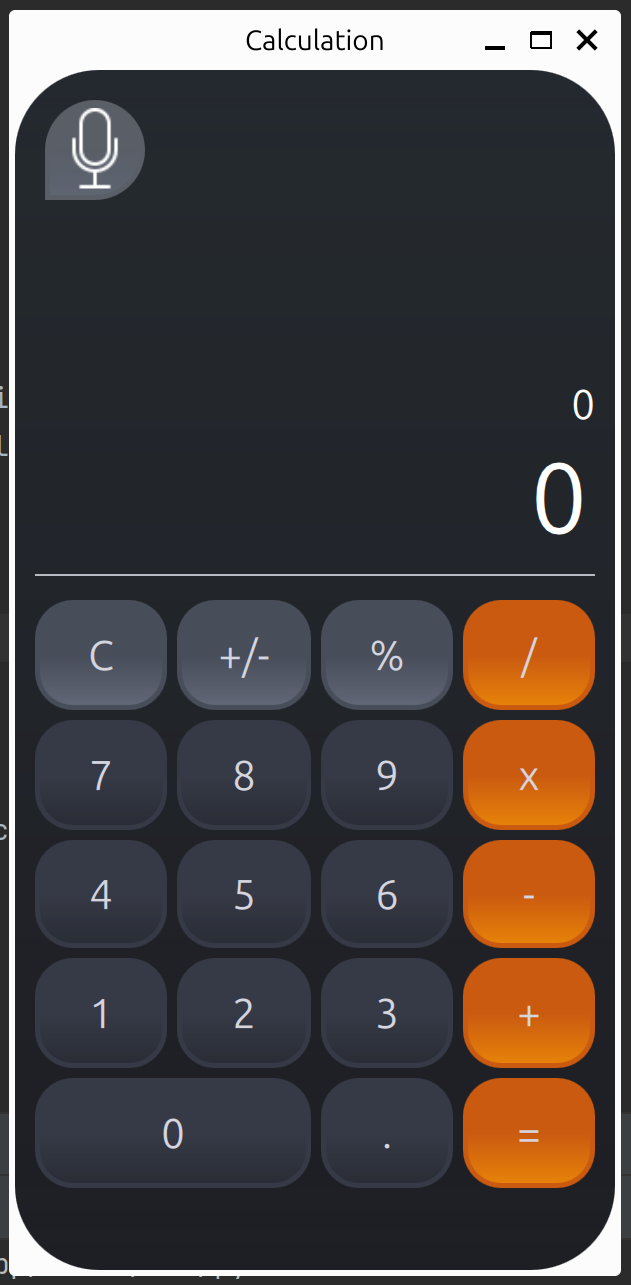
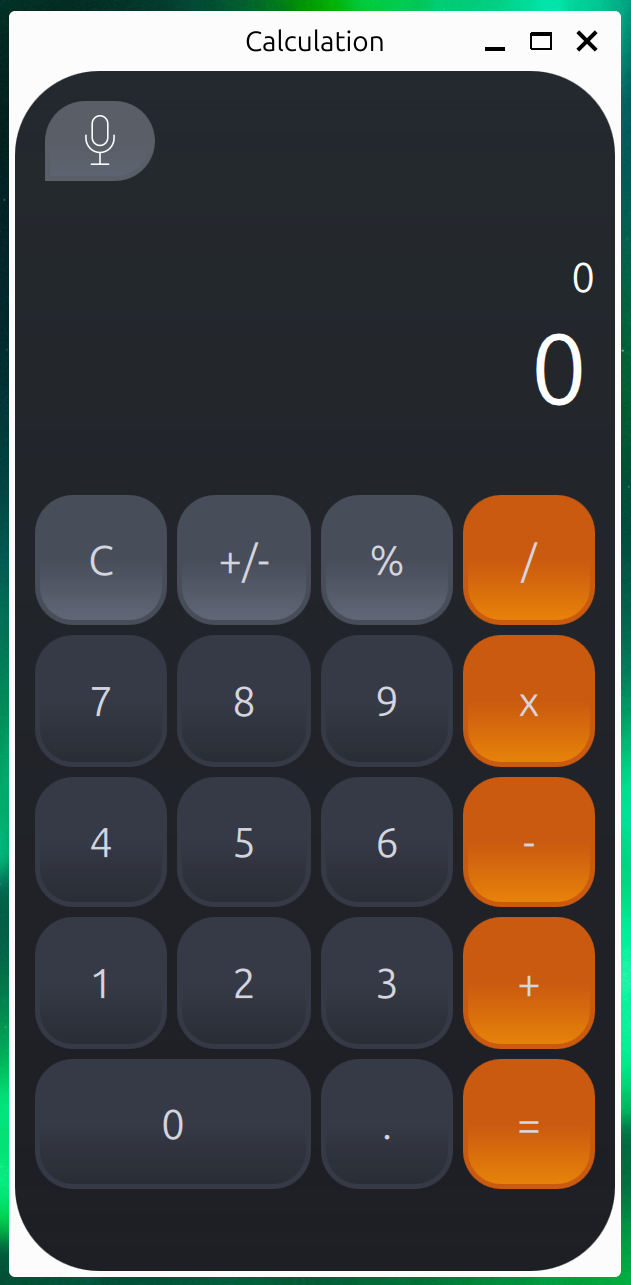
refactoring main, added build scripts

diff --git a/src/qml/calculator.qml b/src/qml/calculator.qml
@@ -9,7 +9,7 @@ ApplicationWindow {
     id: appCalculation
     title: qsTr("Calculation")
     visible: true
-    width: 300
+    width: 290
     height: 600
 
     minimumHeight: 600
@@ -27,10 +27,7 @@ ApplicationWindow {
 
         ColumnLayout {
             spacing: 2
-            anchors.left: parent.left
-            anchors.right: parent.right
-            anchors.top: parent.top
-            anchors.bottom: parent.bottom
+            anchors.fill: parent
 
             // Голосовой ввод с иконкой
             VoiceInput {
@@ -45,19 +42,6 @@ ApplicationWindow {
             // Дисплей
             Display {
                 id: displayArea
-            }
-
-            // Разделительная линия
-            Rectangle {
-                Layout.fillHeight: true
-                Layout.fillWidth: true
-
-                Layout.bottomMargin: 10
-                Layout.leftMargin: 10
-                Layout.rightMargin: 10
-
-                height: 0.5
-                border.color: "#b8bbc2"
             }
 
             Keyboard {

diff --git a/src/qml/controls/VoiceInput.qml b/src/qml/controls/VoiceInput.qml
@@ -5,21 +5,25 @@ import QtQuick.Layouts
 Button {
     hoverEnabled: false
 
-    Layout.preferredHeight: 50
-    Layout.preferredWidth: 50
-
     Layout.topMargin: 15
     Layout.leftMargin: 15
     Layout.rightMargin: 15
 
-    contentItem: Image {
-        source: "../../icons/icons8-microphone-48.png"
+    contentItem: ColorImage {
+        source: "../../icons/microphone-svgrepo-com.svg"
 
-        horizontalAlignment: Text.AlignHCenter
-        verticalAlignment: Text.AlignVCenter
+        fillMode: Image.PreserveAspectFit
+        anchors.centerIn: bgBtnVI
+        sourceSize.height: 25
+        color: "white"
     }
 
     background: Rectangle {
+        id: bgBtnVI
+
+        width: 55
+        height: 40
+
         topLeftRadius: bg.radius + 5
         topRightRadius: 30
         bottomRightRadius: 30

diff --git a/src/qml/controls/Display.qml b/src/qml/controls/Display.qml
@@ -5,10 +5,10 @@ import QtQuick.Controls
 Control {
     Layout.fillHeight: true
     Layout.fillWidth: true
-    Layout.preferredHeight: 80
 
     Layout.leftMargin: 10
     Layout.rightMargin: 10
+    Layout.bottomMargin: 30
 
     property string outputValue: "0"
 

diff --git a/src/qml/controls/HistoryOutput.qml b/src/qml/controls/HistoryOutput.qml
@@ -5,7 +5,6 @@ import QtQuick.Controls
 Control {
     Layout.fillHeight: true
     Layout.fillWidth: true
-    Layout.preferredHeight: 80
     Layout.topMargin: bg.radius
 
     Layout.leftMargin: 10
